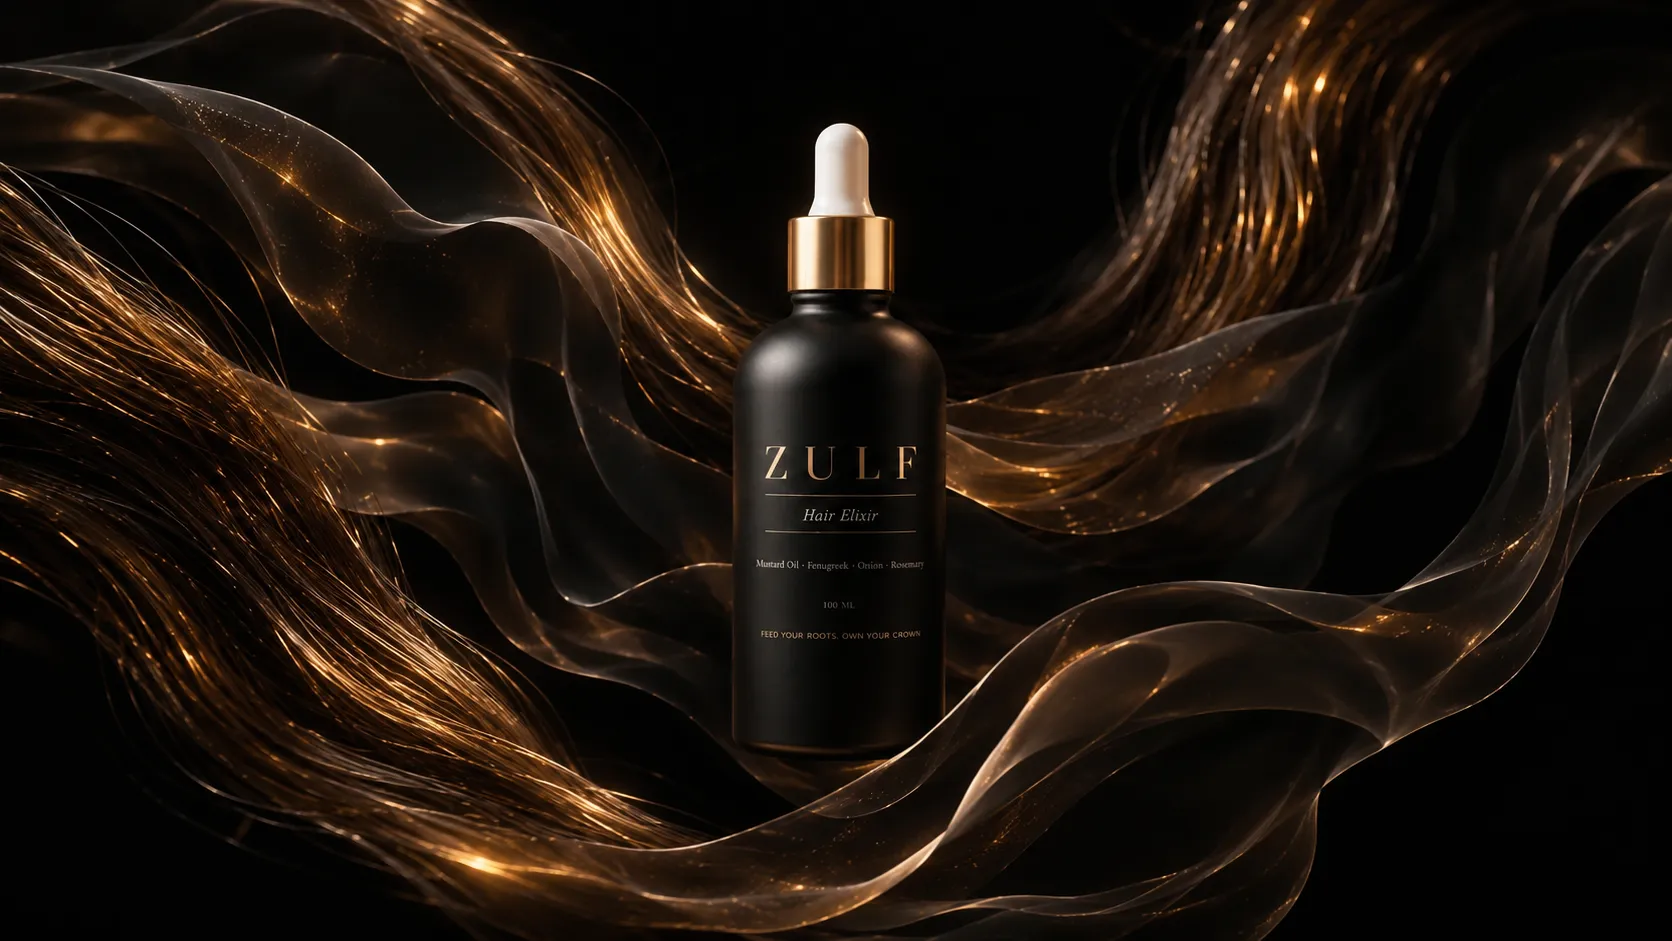
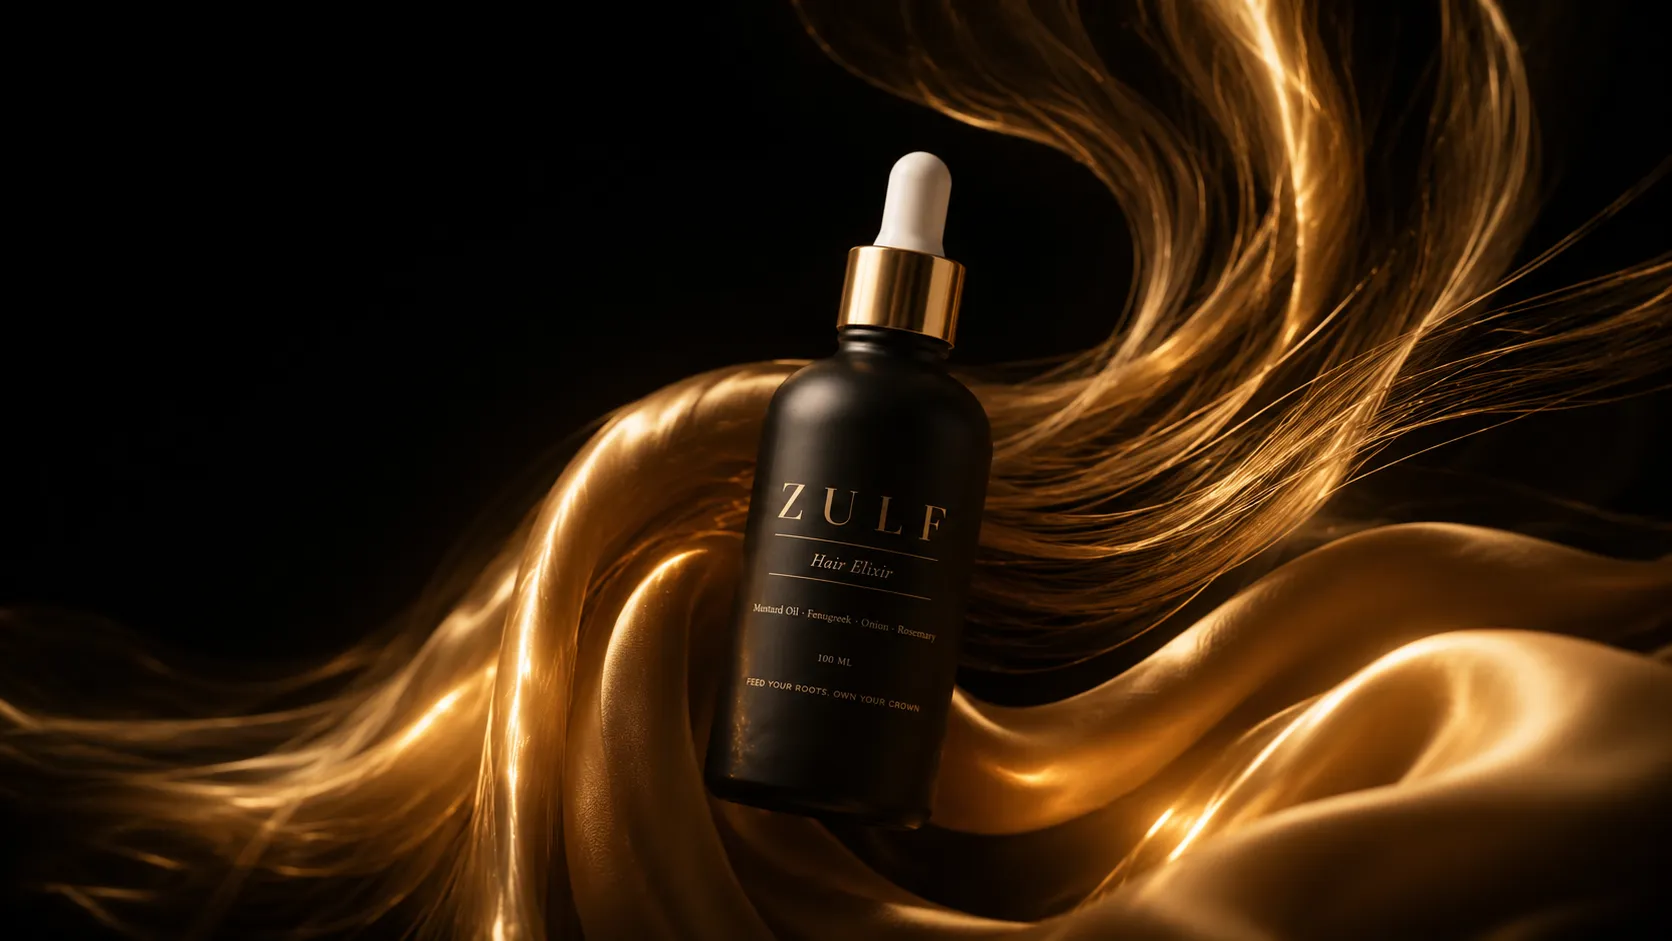
im

diff --git a/app/page.tsx b/app/page.tsx
@@ -51,7 +51,7 @@ export default function ZulfHomepage() {
       <section className="relative flex flex-col md:block h-[100dvh] overflow-hidden bg-[#0A0A0A]">
 
         {/* Sliding Images (Top 60% on mobile, Full screen on desktop) */}
-        <div className="relative w-full h-[60dvh] md:h-full md:absolute md:inset-0 z-[0]">
+        <div className="relative w-full aspect-[4/3] sm:aspect-video md:aspect-auto md:h-full md:absolute md:inset-0 z-[0]">
           <AnimatePresence mode="wait">
             <motion.div
               key={currentSlide}
@@ -76,7 +76,7 @@ export default function ZulfHomepage() {
               <img
                 src={heroSlides[currentSlide]}
                 alt="ZULF Hair Elixir"
-                className="w-full h-full object-contain md:object-cover"
+                className="w-full h-full object-cover object-center"
                 draggable={false}
               />
             </motion.div>
